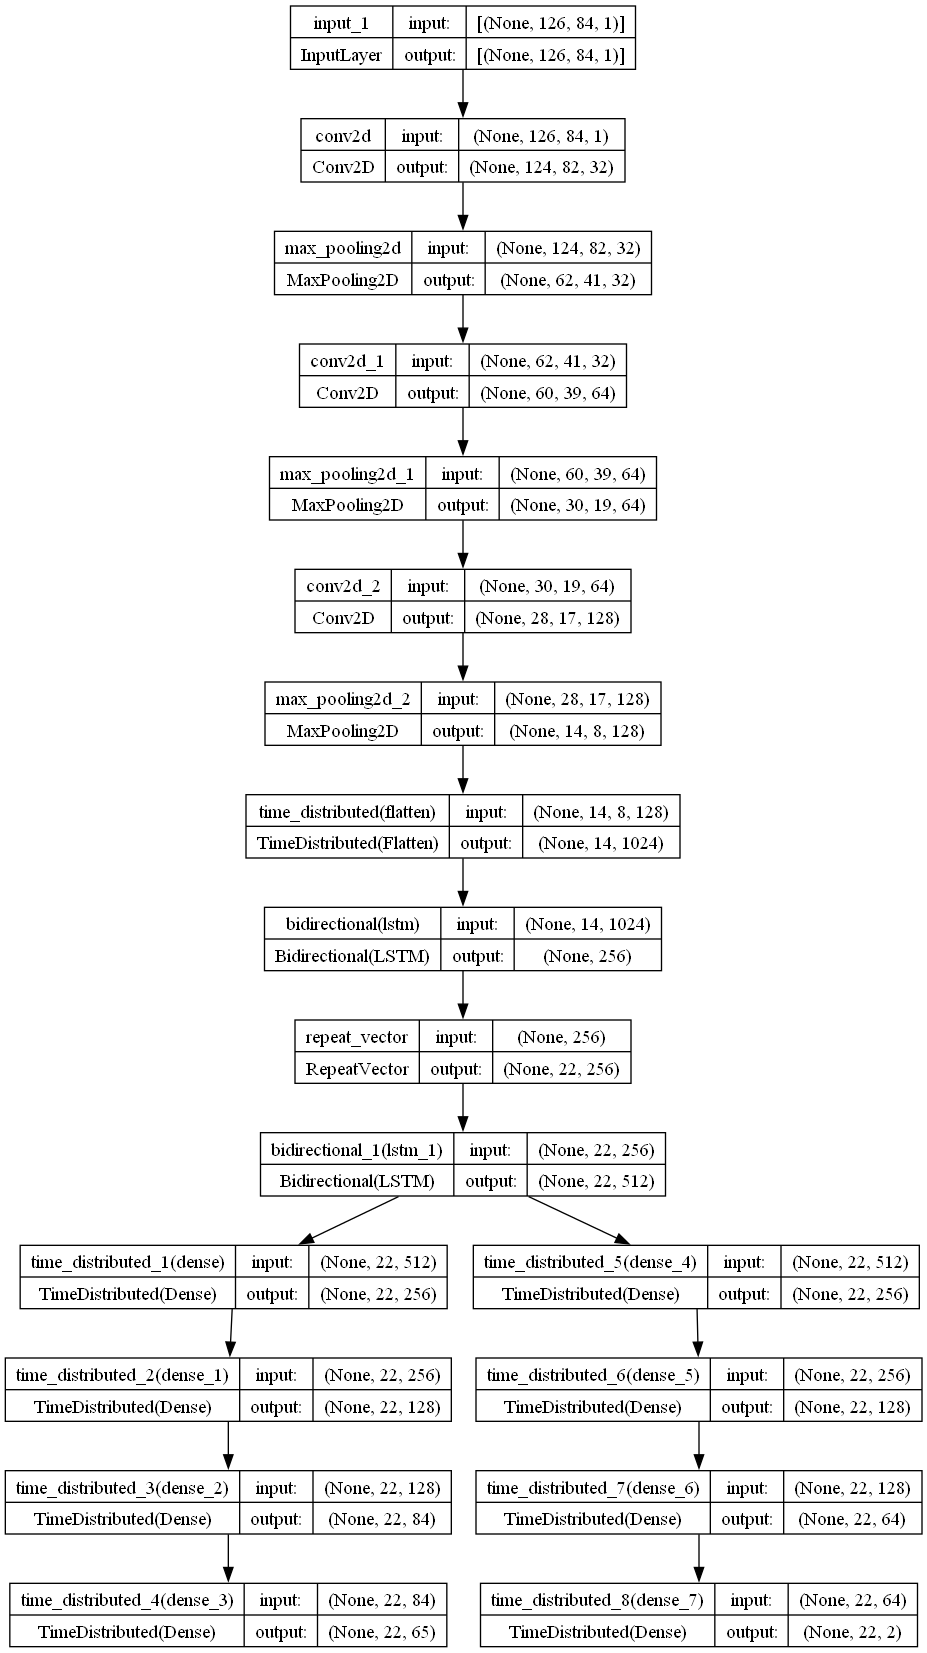
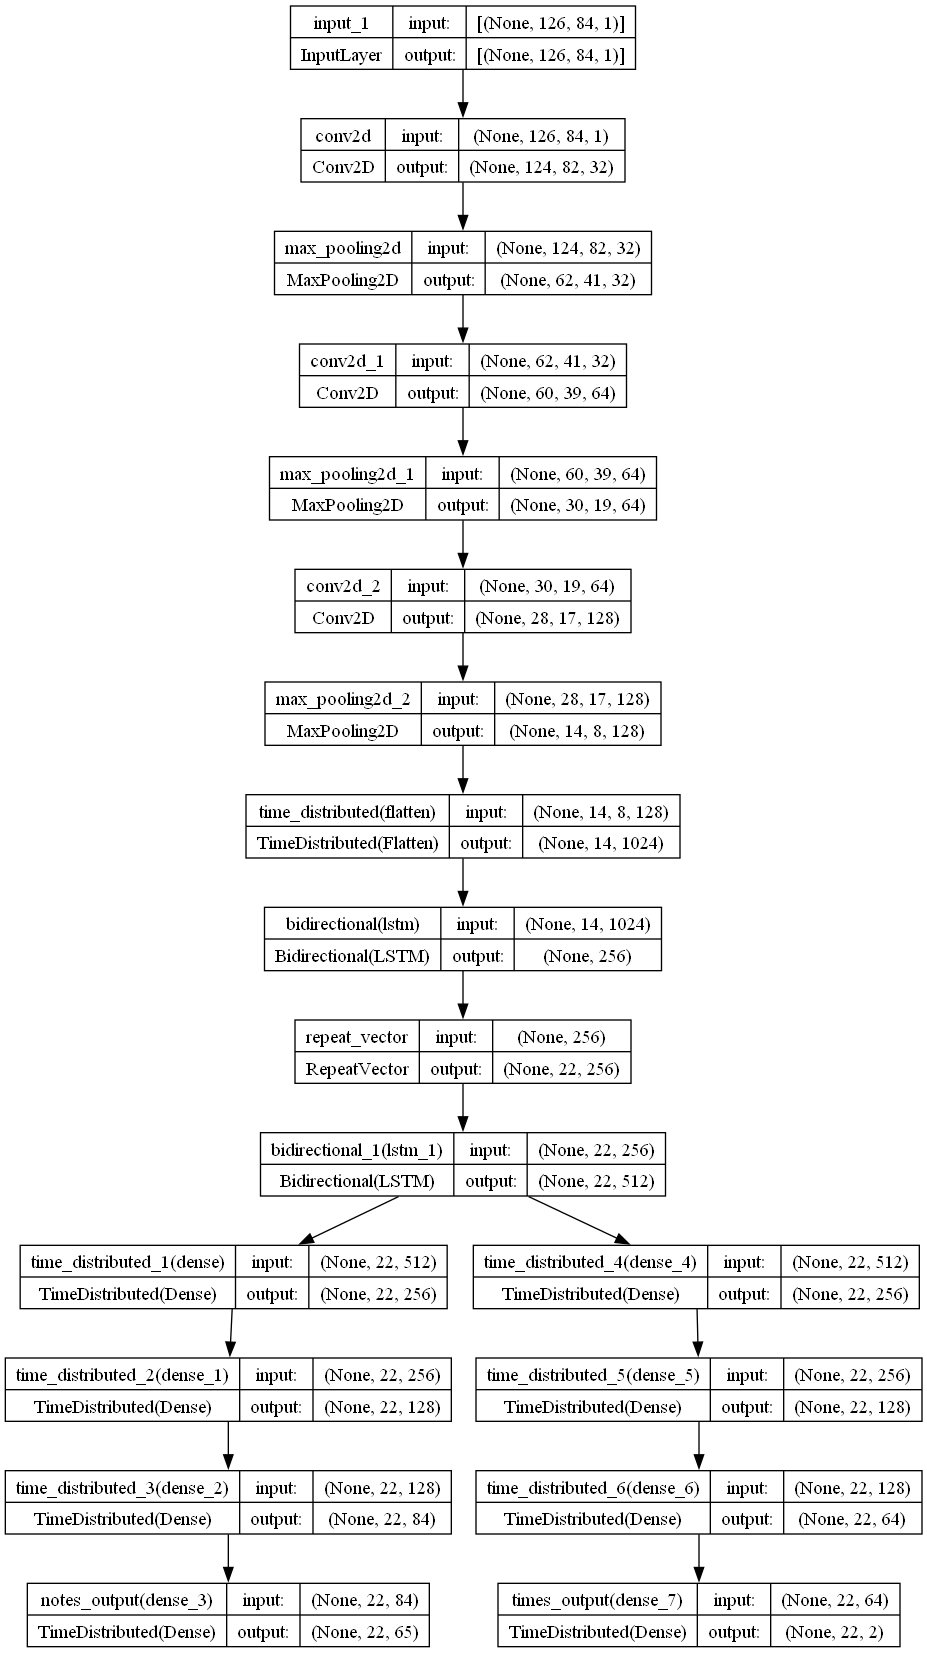
update inlayer names

Changed region(s): [[0.5135, 0.9564, 0.9968, 1.0], [0.0, 0.9564, 0.4833, 1.0]]

diff --git a/V4.0 - Multi-output CNN/seq2seqmodel.py b/V4.0 - Multi-output CNN/seq2seqmodel.py
@@ -89,21 +89,30 @@ out_notes = TimeDistributed(Dense(256, activation="relu"))(x)
 out_notes = TimeDistributed(Dense(128, activation="relu"))(out_notes)
 out_notes = TimeDistributed(Dense(84, activation="relu"))(out_notes)
 # out_notes = TimeDistributed(Dropout(0.5))(out_notes)
-out_notes = TimeDistributed(Dense(notes_outs_len, activation="softmax"))(out_notes)
+out_notes = TimeDistributed(
+    Dense(notes_outs_len, activation="softmax"), name="notes_output"
+)(out_notes)
 
 out_times = TimeDistributed(Dense(256, activation="relu"))(x)
 out_times = TimeDistributed(Dense(128, activation="relu"))(out_times)
 out_times = TimeDistributed(Dense(64, activation="relu"))(out_times)
 # out_times = TimeDistributed(Dropout(0.5))(out_times)
-out_times = TimeDistributed(Dense(2))(out_times)
+out_times = TimeDistributed(Dense(2), name="times_output")(out_times)
 
 
 model = Model(inputs=inputs, outputs=[out_notes, out_times])
-
+metrics = {
+    "notes_output": "categorical_accuracy",  # Adjust based on your task
+    "times_output": "mae",  # Mean Absolute Error
+}
+losses = {
+    "notes_output": "categorical_crossentropy",  # Adjust based on your task
+    "times_output": "mean_squared_error",  # Mean Squared Error
+}
 model.compile(
     optimizer=Adam(learning_rate=0.001),
-    loss=["categorical_crossentropy", "mse"],  # 'mse
-    metrics=["accuracy", "mae"],
+    loss=losses,  # 'mse
+    metrics=metrics,
 )
 # fit model
 
